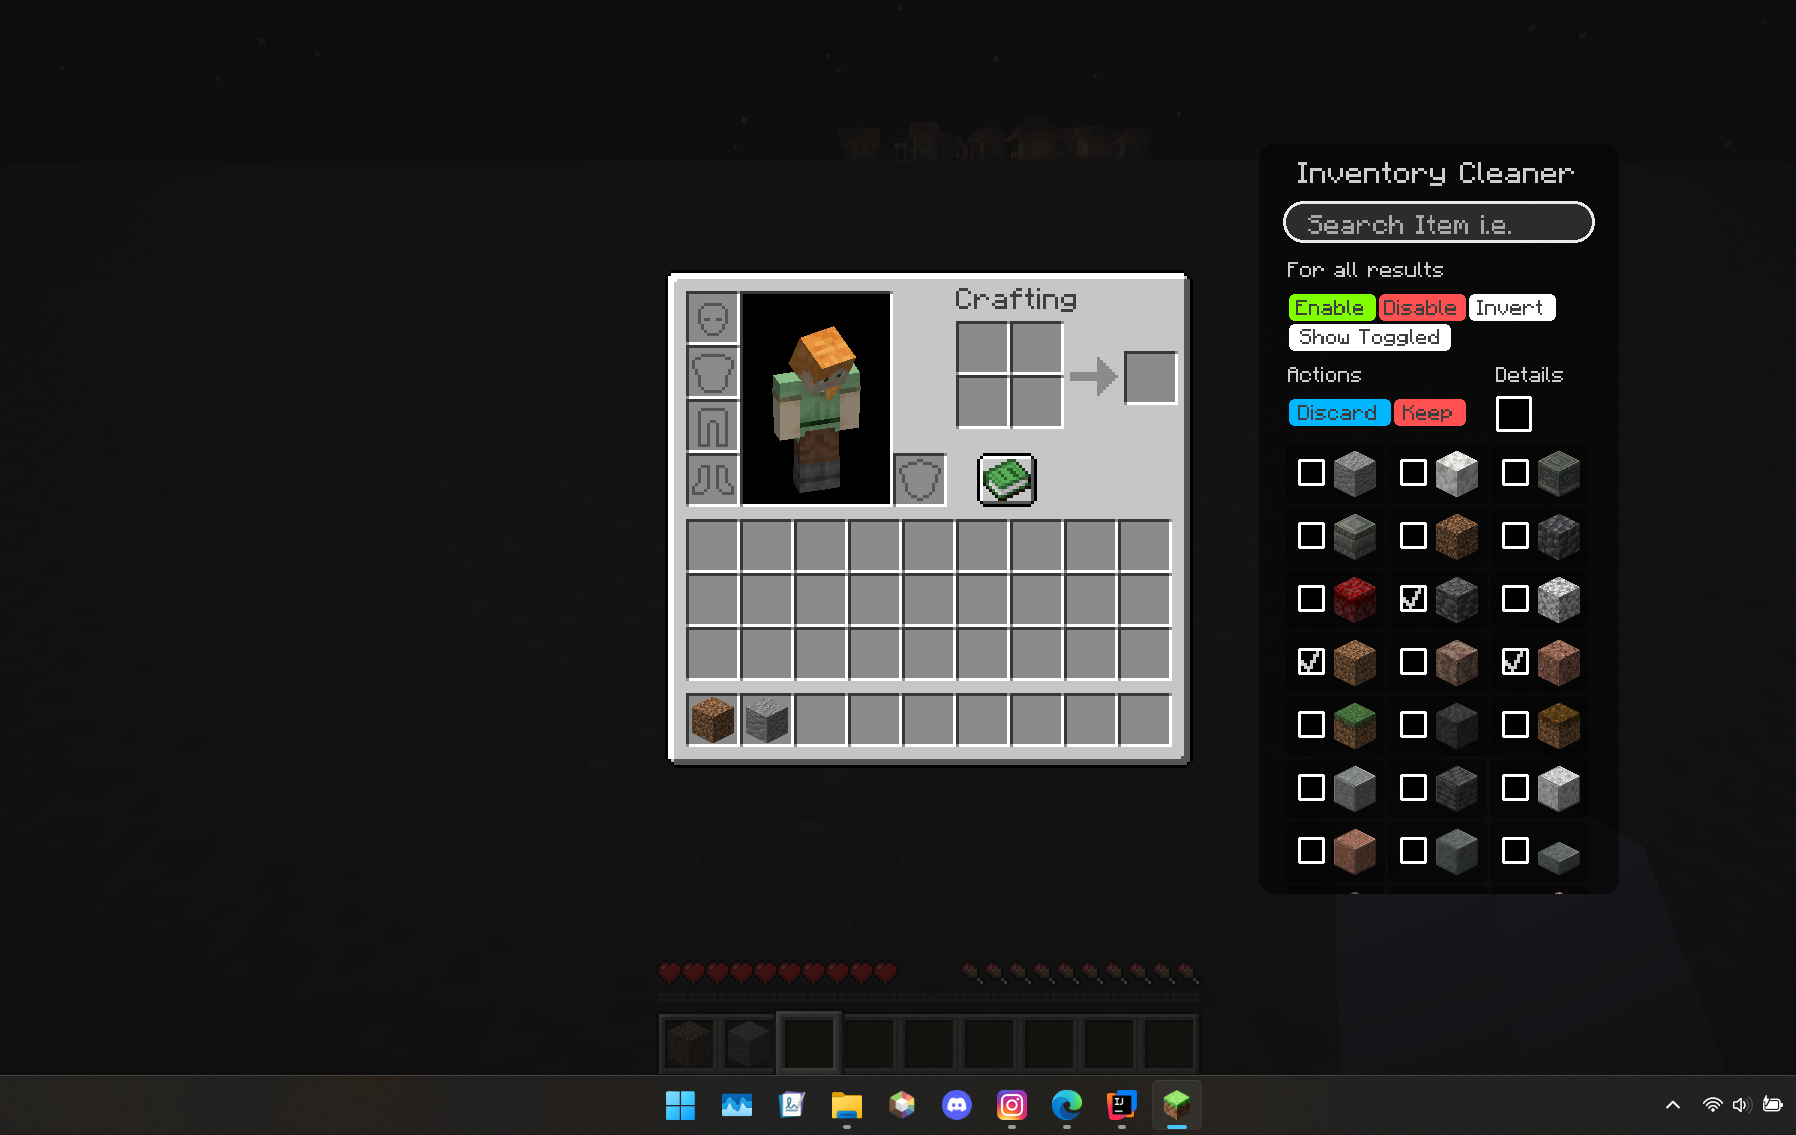
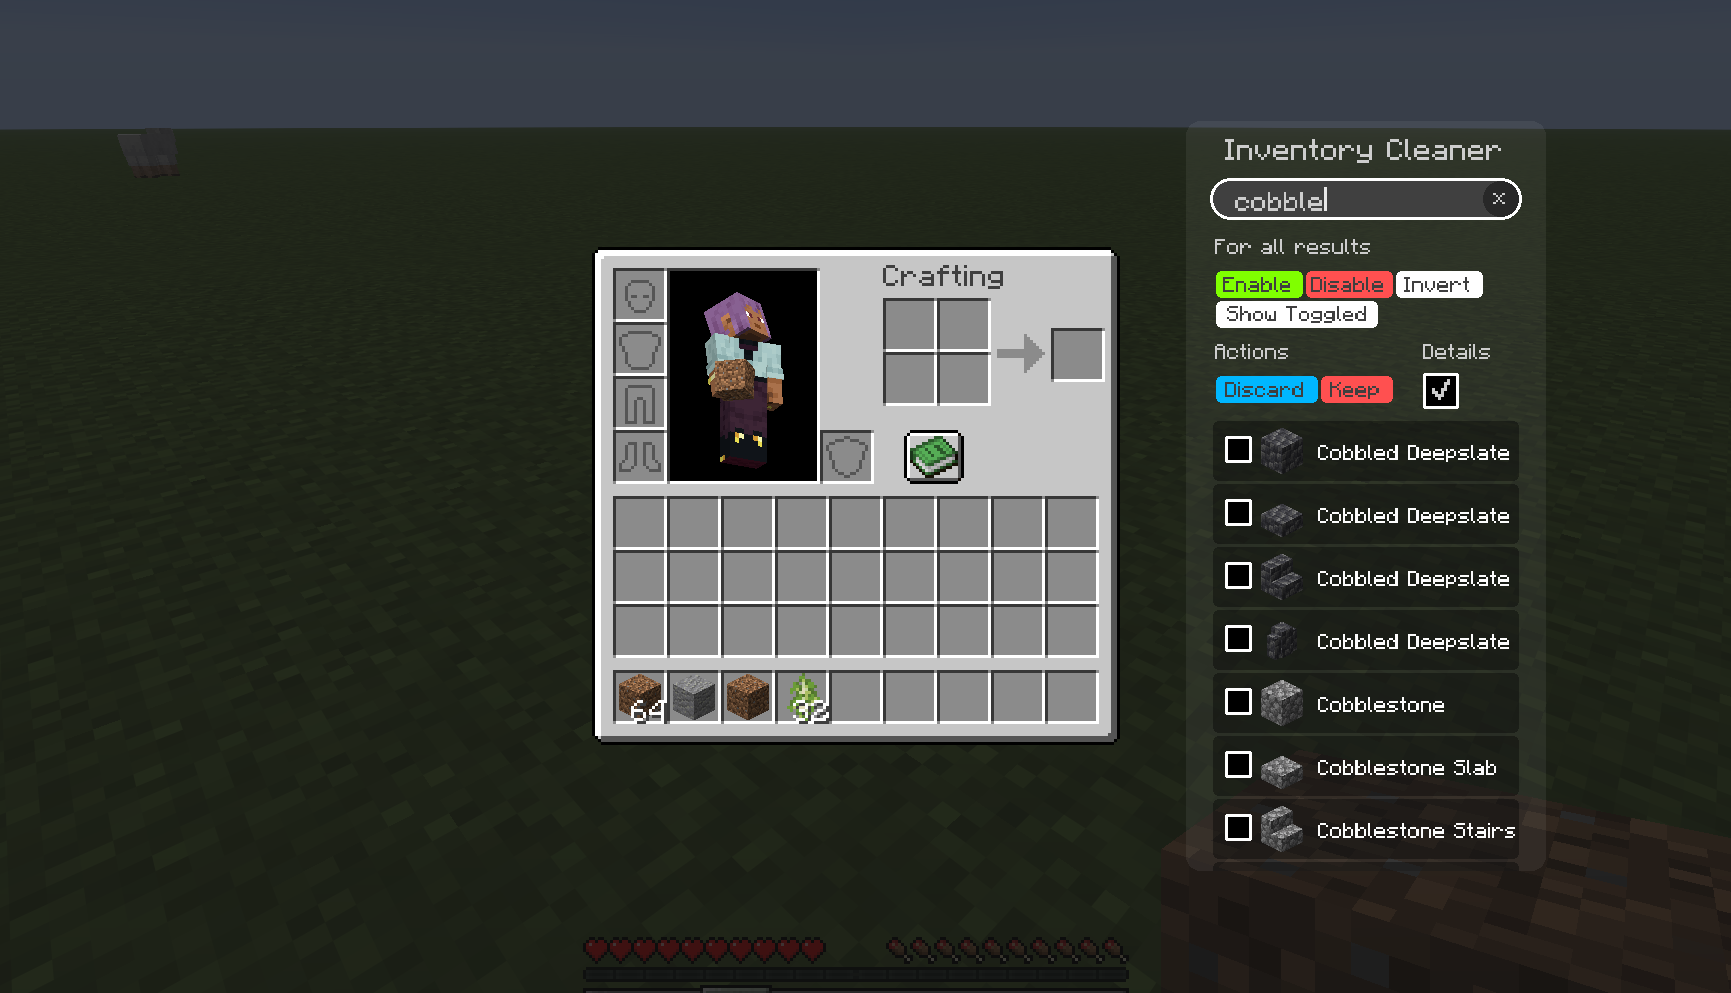
update 0.1.1

diff --git a/src/client/java/io/github/itzispyder/invCleaner/client/mixin/MixinHandledScreen.java b/src/client/java/io/github/itzispyder/invCleaner/client/mixin/MixinHandledScreen.java
@@ -19,15 +19,19 @@ public abstract class MixinHandledScreen {
     @Inject(method = "mouseScrolled", at = @At("HEAD"))
     void mouseScrolled(double mouseX, double mouseY, double horizontalAmount, double verticalAmount, CallbackInfoReturnable<Boolean> cir) {
         ParentElement parent = (ParentElement) this;
-        if (parent instanceof InventoryScreen)
+        if (parent instanceof InventoryScreen inv && !((AccessorRecipeBookScreen) inv).accessRecipeBook().isOpen())
             GUIHandler.get().mouseScrolled(mouseX, mouseY, horizontalAmount, verticalAmount);
     }
 
-    @Inject(method = "keyPressed", at = @At("HEAD"))
+    @Inject(method = "keyPressed", at = @At("HEAD"), cancellable = true)
     void keyPressed(KeyInput input, CallbackInfoReturnable<Boolean> cir) {
         ParentElement parent = (ParentElement) this;
-        if (parent instanceof InventoryScreen)
-            GUIHandler.get().keyPressed(input);
+        GUI gui = GUIHandler.get();
+        if (parent instanceof InventoryScreen inv && !((AccessorRecipeBookScreen) inv).accessRecipeBook().isOpen()) {
+            gui.keyPressed(input);
+            if (gui.focused == gui.getSearchBar())
+                cir.cancel();
+        }
     }
 
     @Inject(method = "tick", at = @At("HEAD"))
@@ -36,13 +40,8 @@ public abstract class MixinHandledScreen {
             GUIHandler.get().tick();
     }
 
-    @Inject(method = "close", at = @At("TAIL"), cancellable = true)
+    @Inject(method = "close", at = @At("TAIL"))
     public void close(CallbackInfo ci) {
-        GUI gui = GUIHandler.get();
-        if (gui != null && gui.focused == gui.search) {
-            ci.cancel();
-            return;
-        }
         GUIHandler.destroy();
     }
 }

diff --git a/src/client/java/io/github/itzispyder/invCleaner/client/mixin/MixinParentElement.java b/src/client/java/io/github/itzispyder/invCleaner/client/mixin/MixinParentElement.java
@@ -16,14 +16,14 @@ public interface MixinParentElement {
     @Inject(method = "mouseClicked", at = @At("HEAD"))
     default void mouseClicked(Click click, boolean doubled, CallbackInfoReturnable<Boolean> cir) {
         ParentElement parent = (ParentElement) this;
-        if (parent instanceof InventoryScreen)
+        if (parent instanceof InventoryScreen inv && !((AccessorRecipeBookScreen) inv).accessRecipeBook().isOpen())
             GUIHandler.get().mouseClicked(click, doubled);
     }
 
     @Inject(method = "keyReleased", at = @At("HEAD"))
     default void keyReleased(KeyInput input, CallbackInfoReturnable<Boolean> cir) {
         ParentElement parent = (ParentElement) this;
-        if (parent instanceof InventoryScreen)
+        if (parent instanceof InventoryScreen inv && !((AccessorRecipeBookScreen) inv).accessRecipeBook().isOpen())
             GUIHandler.get().keyReleased(input);
     }
 }

diff --git a/src/client/java/io/github/itzispyder/invCleaner/client/ui/GUI.java b/src/client/java/io/github/itzispyder/invCleaner/client/ui/GUI.java
@@ -16,7 +16,7 @@ public class GUI extends ImproperUIPanel {
 
     private final Element results;
     private final Element clear;
-    public final TextBox search;
+    private final TextBox search;
     private final Element root;
     private boolean showDetails;
 
@@ -37,12 +37,12 @@ public class GUI extends ImproperUIPanel {
         return root;
     }
 
-    public void setDetailed(boolean detailed) {
-        if (detailed)
-            results.callProperty("grid-columns: 1");
-        else
-            results.callProperty("grid-columns: 3");
+    public TextBox getSearchBar() {
+        return search;
+    }
 
+    public void setDetailed(boolean detailed) {
+        results.gridColumns = detailed ? 1 : 3;
         showDetails = detailed;
         Config.setDetailed(showDetails);
         updateResults(getCurrentQuery());

diff --git a/src/client/java/io/github/itzispyder/invCleaner/client/ui/GUIHandler.java b/src/client/java/io/github/itzispyder/invCleaner/client/ui/GUIHandler.java
@@ -1,5 +1,9 @@
 package io.github.itzispyder.invCleaner.client.ui;
 
+import io.github.itzispyder.invCleaner.client.mixin.AccessorRecipeBookScreen;
+import net.minecraft.client.MinecraftClient;
+import net.minecraft.client.gui.screen.ingame.InventoryScreen;
+
 public class GUIHandler {
 
     private static GUI instance;
@@ -14,5 +18,11 @@ public class GUIHandler {
 
     public static void destroy() {
         instance = null;
+    }
+
+    public static boolean passEventPoll() {
+        if (!(MinecraftClient.getInstance().currentScreen instanceof InventoryScreen inv))
+            return false;
+        return !((AccessorRecipeBookScreen) inv).accessRecipeBook().isOpen();
     }
 }

diff --git a/src/client/java/io/github/itzispyder/invCleaner/client/ui/SearchResultElement.java b/src/client/java/io/github/itzispyder/invCleaner/client/ui/SearchResultElement.java
@@ -15,10 +15,7 @@ public class SearchResultElement extends KeyHolderElement {
     private final boolean detailed;
 
     public SearchResultElement(Item item, boolean detailed) {
-        if (detailed)
-            this.queueProperty("size: 100% 20");
-        else
-            this.queueProperty("size: 33 20");
+        this.queueProperty("size: " + (detailed ? "100% 20" : "33 20"));
         this.queueProperty("border-radius: 2");
         this.queueProperty("background-color: #60000000");
         this.queueProperty("margin-bottom: 1");

diff --git a/src/client/java/io/github/itzispyder/invCleaner/client/mixin/MixinInventoryScreen.java b/src/client/java/io/github/itzispyder/invCleaner/client/mixin/MixinInventoryScreen.java
@@ -24,7 +24,7 @@ public abstract class MixinInventoryScreen {
     @Inject(method = "mouseReleased", at = @At("HEAD"))
     void mouseReleased(Click click, CallbackInfoReturnable<Boolean> cir) {
         ParentElement parent = (ParentElement) this;
-        if (parent instanceof InventoryScreen)
+        if (parent instanceof InventoryScreen inv && !((AccessorRecipeBookScreen) inv).accessRecipeBook().isOpen())
             GUIHandler.get().mouseReleased(click);
     }
 

diff --git a/src/client/java/io/github/itzispyder/invCleaner/client/data/ItemRegistry.java b/src/client/java/io/github/itzispyder/invCleaner/client/data/ItemRegistry.java
@@ -14,7 +14,7 @@ public class ItemRegistry {
         List<String> list = Config.readList();
         Registries.ITEM.stream()
                 .filter(item -> test(item, query, list))
-                .limit(33)
+                .limit(64)
                 .sorted(Comparator.comparing(Item::getTranslationKey))
                 .forEach(action);
     }

diff --git a/src/client/java/io/github/itzispyder/invCleaner/client/ui/GUICallbacks.java b/src/client/java/io/github/itzispyder/invCleaner/client/ui/GUICallbacks.java
@@ -94,7 +94,7 @@ public class GUICallbacks implements CallbackListener {
     public void onShowToggled(MouseEvent e) {
         if (!e.input.isDown())
             return;
-        parent.search.setQuery("is:enabled");
+        parent.getSearchBar().setQuery("is:enabled");
         parent.updateResults(parent.getCurrentQuery());
     }
 }

diff --git a/README.md b/README.md
@@ -1,7 +1,7 @@
 # Inventory Cleaner
 
 ---
-Ever had items you wanted to discard during pvp combat?
+Ever had items you wanted to discard build up in your inventory over time?
 Dirt? Sand? Stone? Here's your solution!
 
 ***Disclaimers (2):***
@@ -9,6 +9,28 @@ Dirt? Sand? Stone? Here's your solution!
 - No keybinding will be added for this, you have to manually click the blue or red buttons (so this doesn't turn into a macro)
 
 This mod requires [**ImproperUI**](https://modrinth.com/mod/improperui) to run.
+
+
+
+## Actions
+
+| Action  | Description                               |
+|:--------|:------------------------------------------|
+| Discard | Drops all selected items from inventory   |
+| Keep    | Drops all unselected items from inventory |
+
+
+## Recent Changes
+```yml
+Version: 0.1.1
+
+Changed:
+  - background color to be more visible
+
+Patches:
+  - widgets still being clickable despite being hidden
+```
+
 
 ![img.png](assets/img.png)
 
